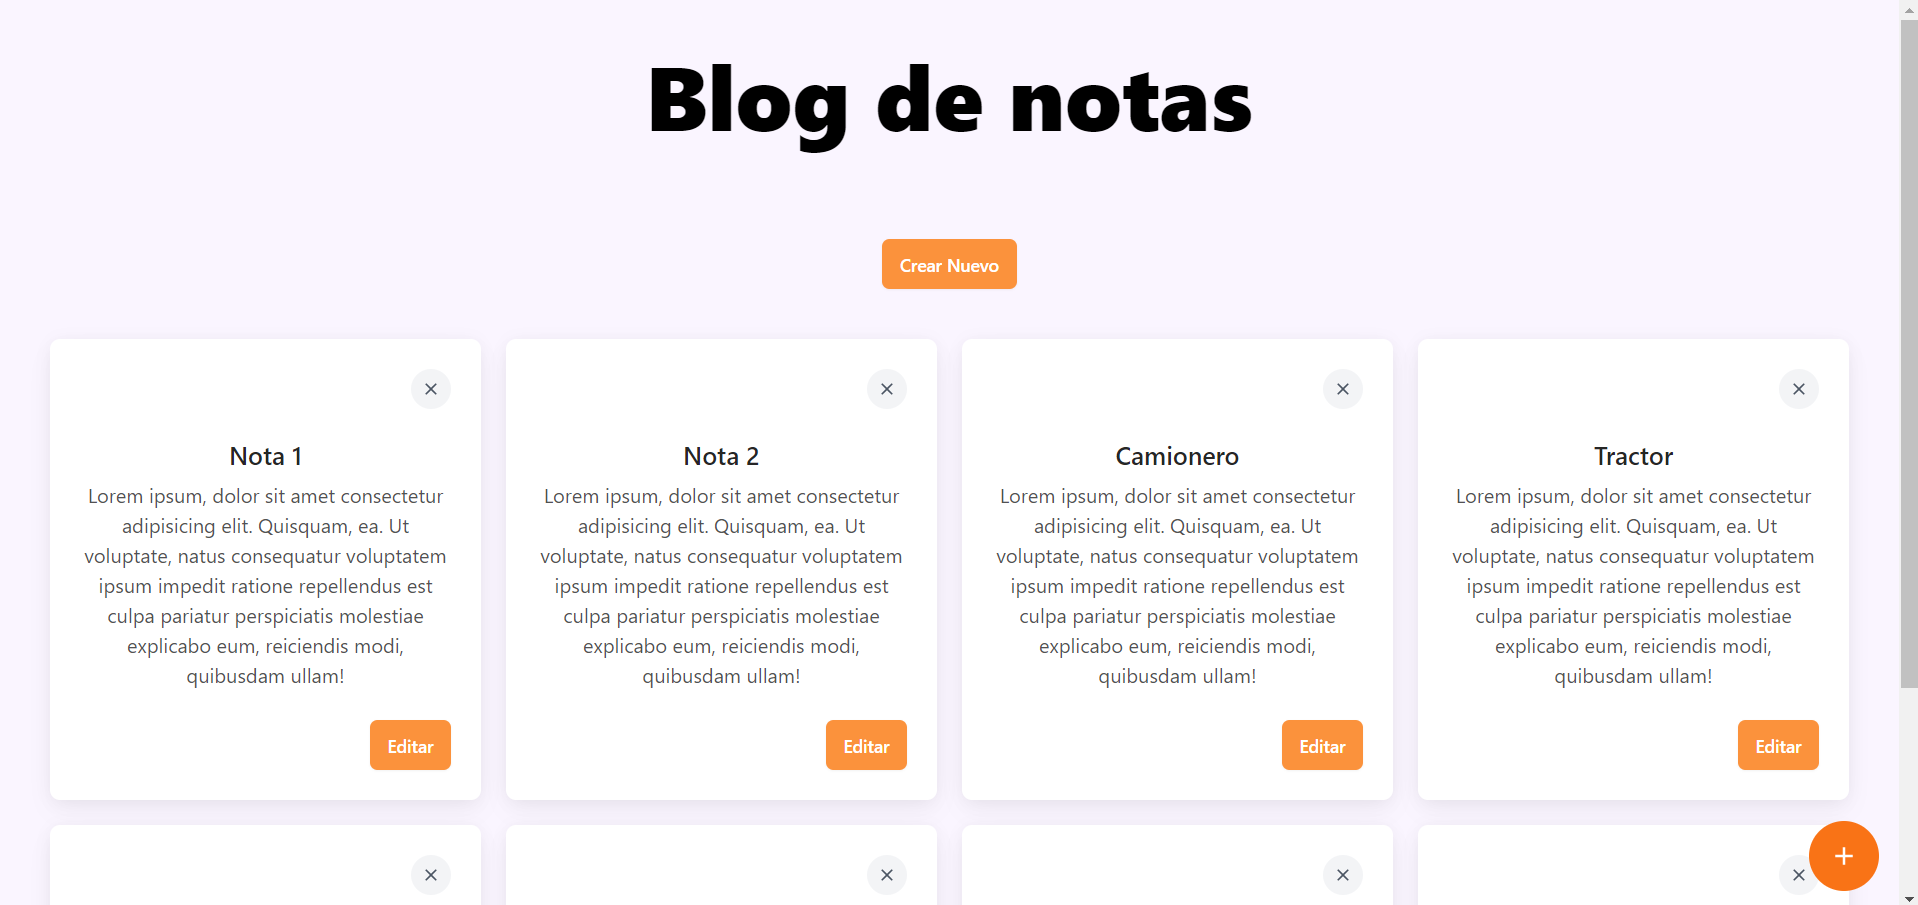
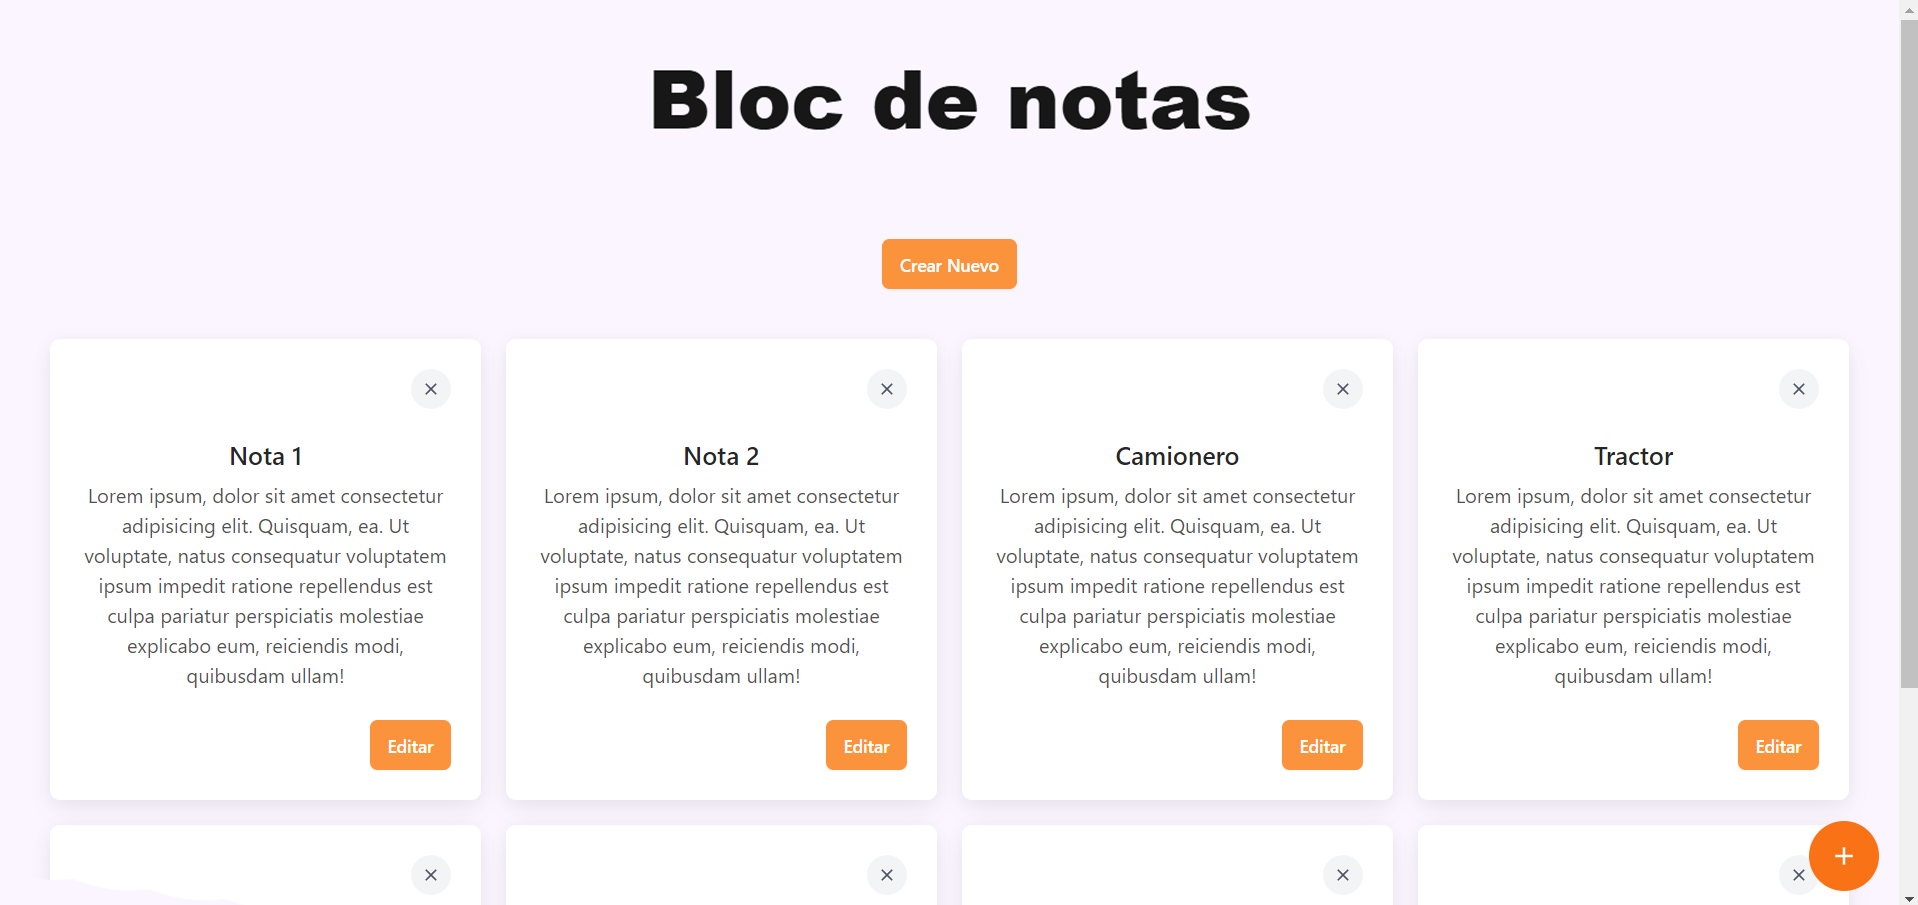
---

Changed region(s): [[0.3384, 0.0619, 0.646, 0.1856]]

diff --git a/notas/templates/notas/inicio.html b/notas/templates/notas/inicio.html
@@ -3,7 +3,7 @@
 {% block title %}Blog de notas{% endblock %}
 
 {% block body %}
-<h1 class="text-center text-7xl font-extrabold mt-10">Blog de notas</h1>
+<h1 class="text-center text-7xl font-extrabold mt-10">Bloc de notas</h1>
 <div class="mt-20">
     <div class="flex justify-center">
         <a href="{% url 'agregar' %}" class="rounded-md bg-orange-400 px-3.5 py-2.5 text-sm font-semibold text-white shadow-sm hover:bg-orange-500 
